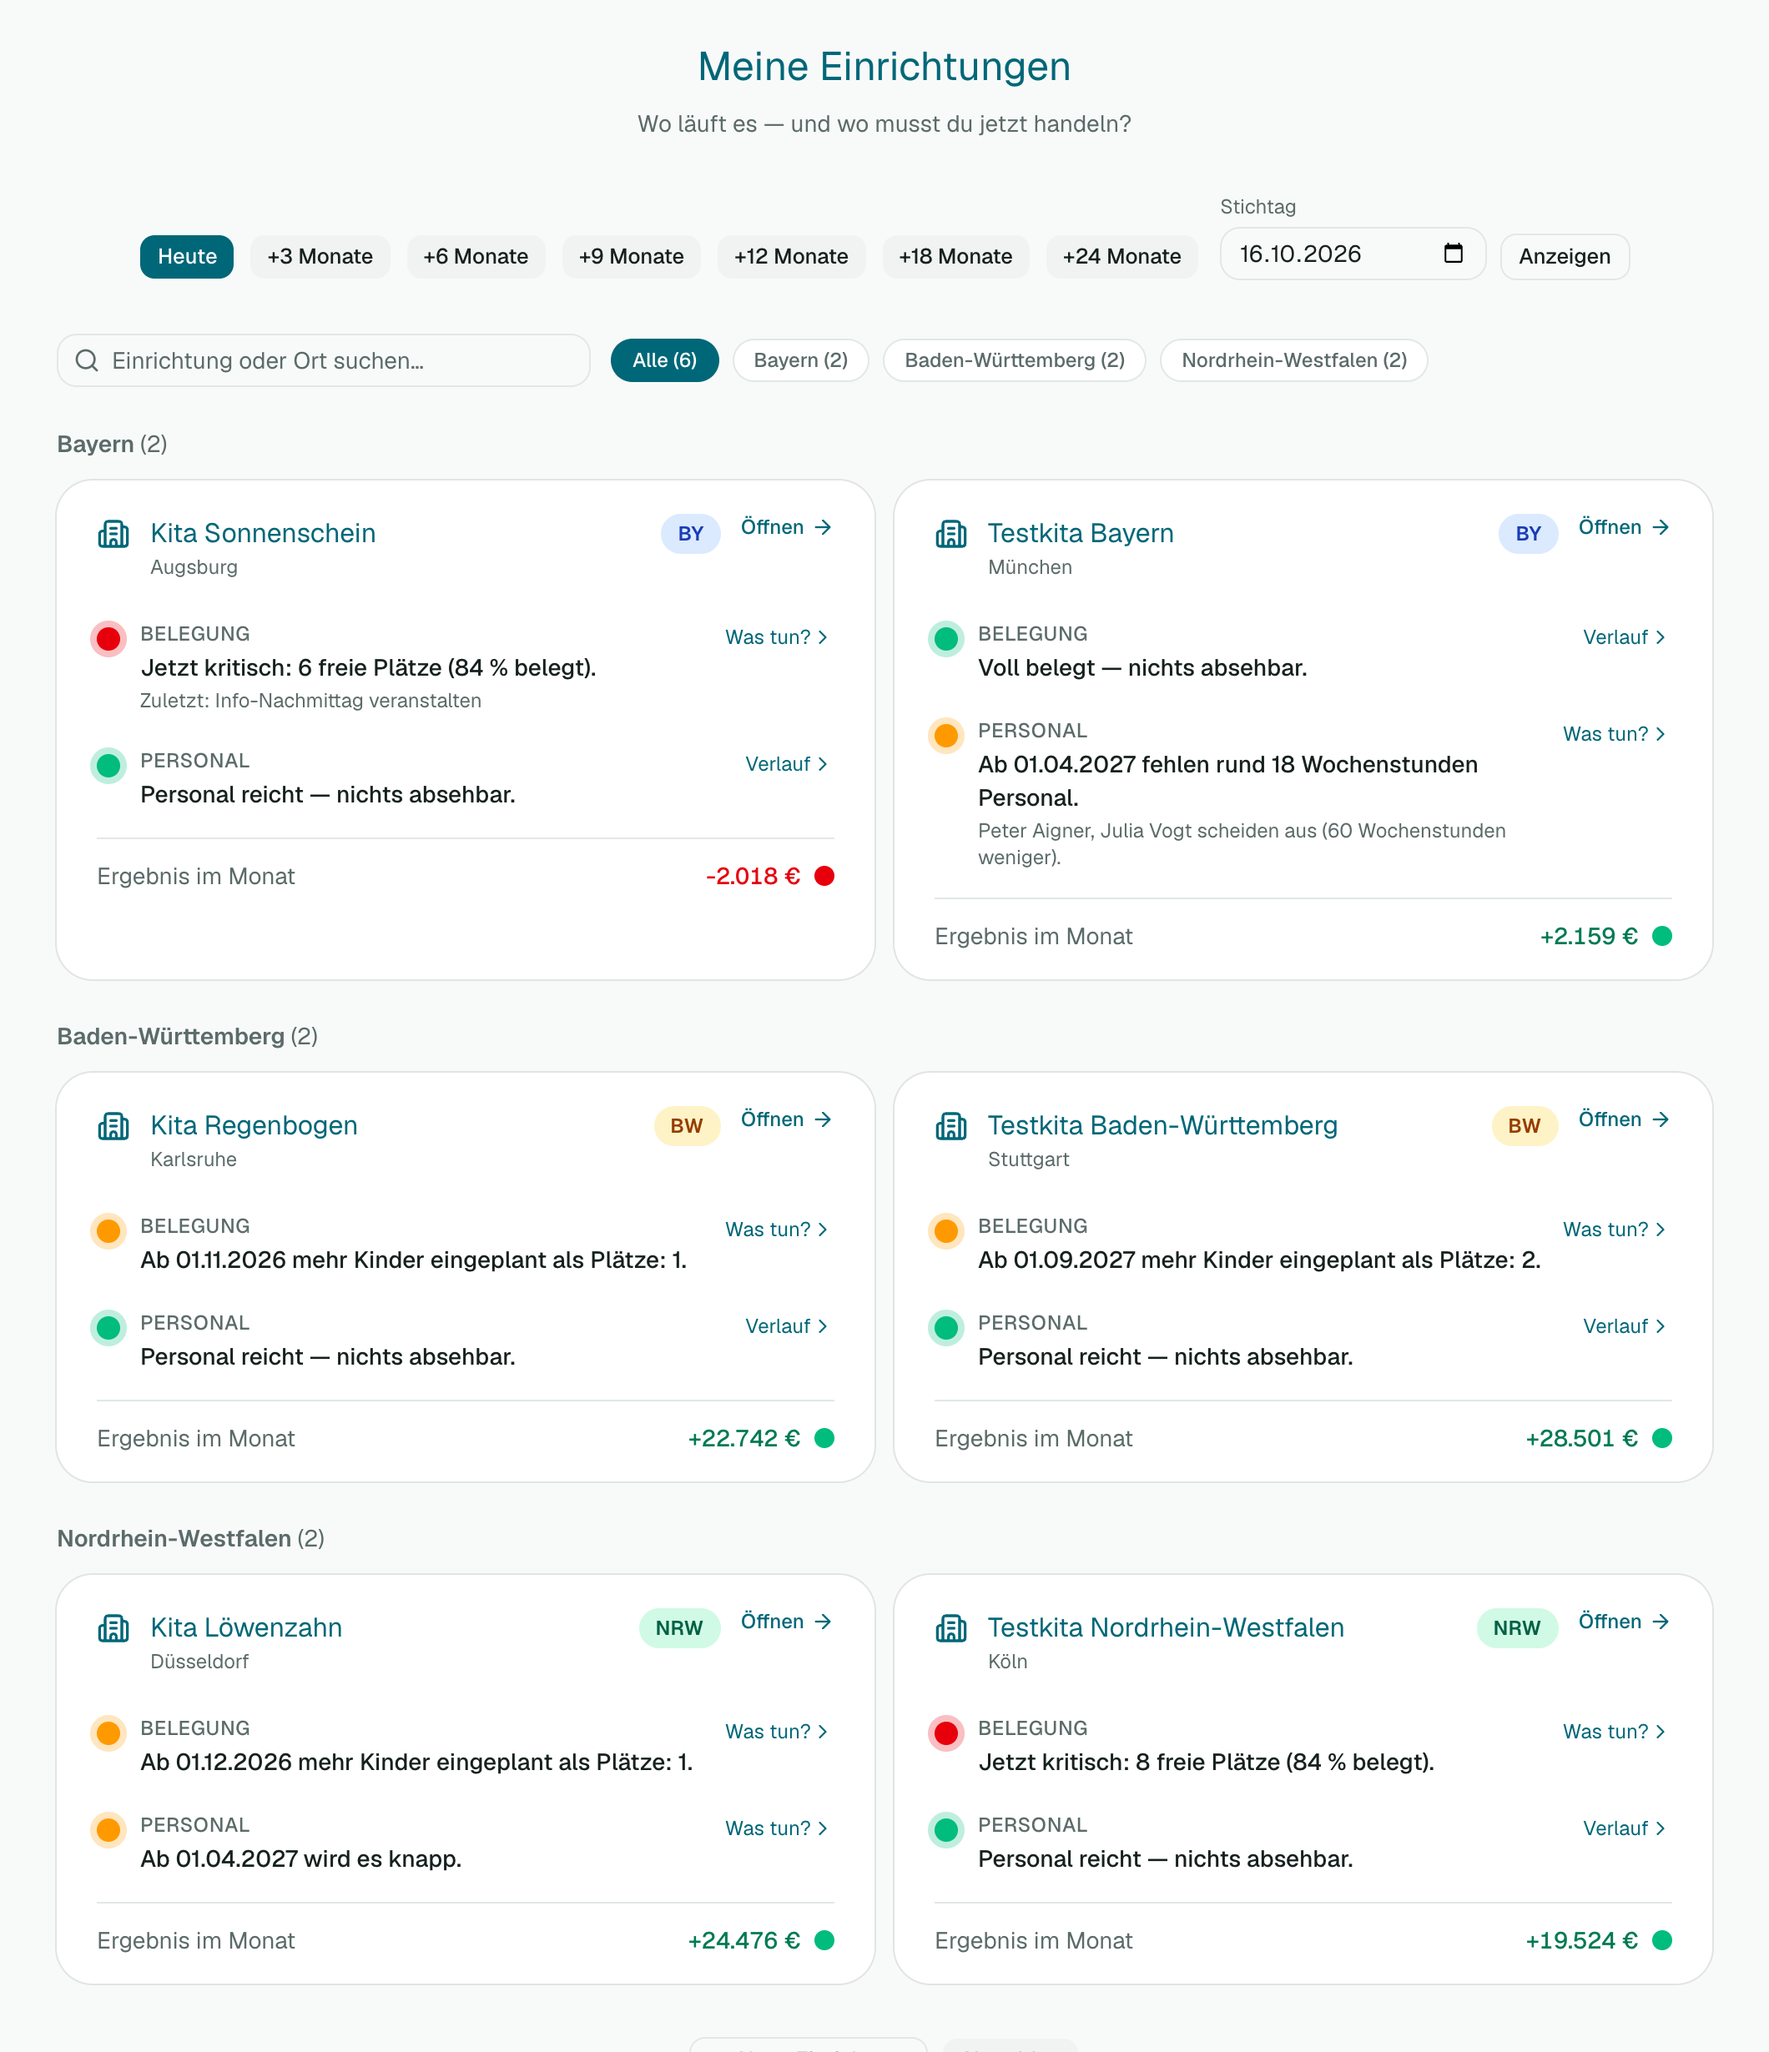
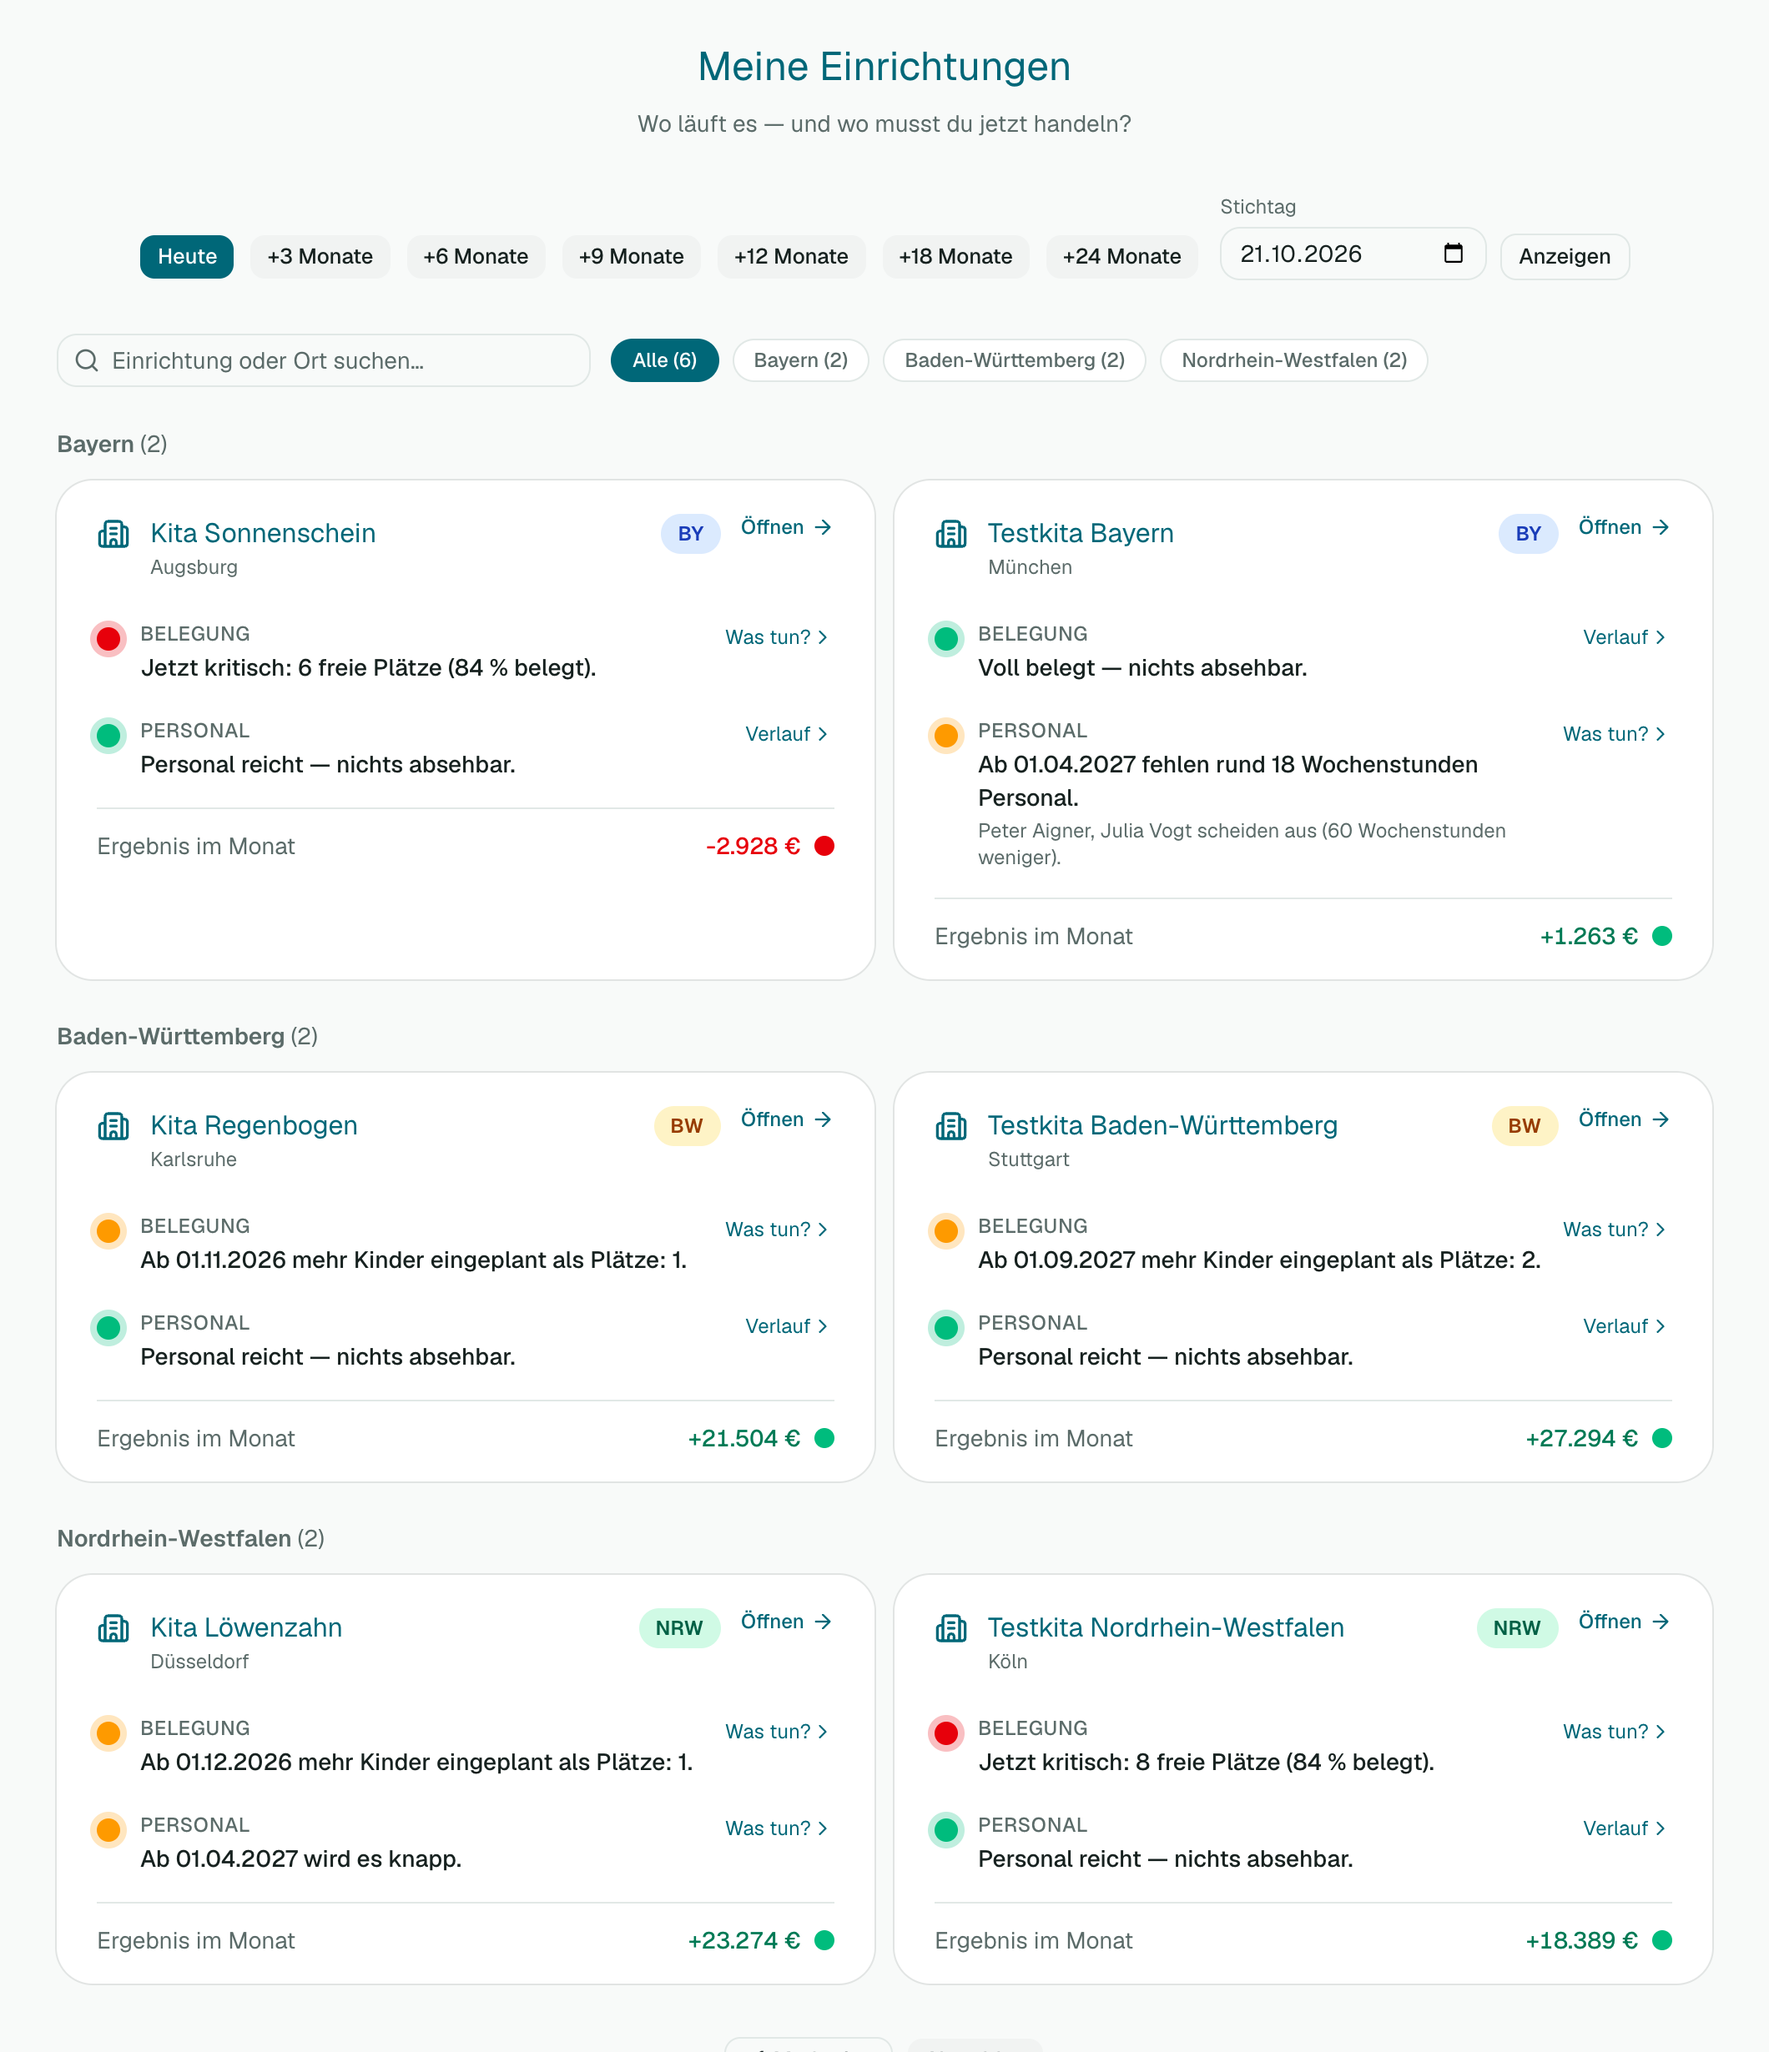
Landing-Screenshots neu (Zulage, Förderwerte), Zahlenabgleich aktualisiert

diff --git a/docs/zahlenabgleich-demo.md b/docs/zahlenabgleich-demo.md
@@ -37,3 +37,14 @@ Die Demo-Daten sind frei erfunden; geprüft wird die **Rechenlogik**, nicht echt
 - TVöD-Tabelle (S3–S18) nicht gegen die Primärquelle (VKA/dbb) geprüft.
 - Ergebnis = Fördererlöse − Personalkosten; Elternbeiträge, kommunaler Anteil und Sachkosten fehlen.
 - Einschulungsstatus (Muss/Kann/Korridor) in den Demo-Daten nach vereinfachten Stichtagsregeln vergeben.
+
+## Stand 21.10.2026 (nach Milestone 34 und 36)
+
+Die Tabelle oben stammt aus der Zeit vor dem kommunalen Anteil und ist überholt. Aktuelle Werte (Oktober 2026, aus `scripts/ergebnis-pruefen.ts`, dieselbe Berechnung wie Controlling):
+
+| Einrichtung | Fördererlöse | Personalkosten | Ergebnis |
+| --- | --- | --- | --- |
+| Testkita Bayern | 29.276 € (staatlich 14.267, kommunal 12.609, Zuschuss 2.400) | 31.508 € (inkl. SuE-Zulage) | +1.263 € |
+| Kita Sonnenschein | 25.198 € | 32.061 € | −2.928 € |
+
+Neu seit Milestone 36: SuE-Zulage (130 €/180 € je Vollzeit) in den Personalkosten, NRW-Kindpauschalen 2026/27 auf die amtlichen Werte (Drs. 18/20466), Teamkräftepauschale Bayern ab 2027 (Schalter je Einrichtung, bei 37 Plätzen 1.542 €/Monat, per Skript nachgerechnet).
